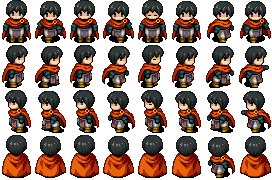
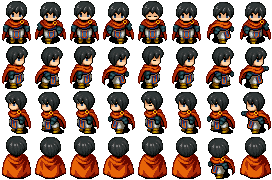
Update 20230120

diff --git a/src/script/player.js b/src/script/player.js
@@ -43,10 +43,10 @@ class Player{
 
         this.attributes = {
             power : 12,
-            agility : 999,
-            dexterity : 999,
+            agility : 10,
+            dexterity : 12,
             vitality : 11,
-            inteligence : 20
+            inteligence : 17
         }
         
         this.attributes_values = {
@@ -78,11 +78,16 @@ class Player{
 
         this.currentShieldSprite = this.sprites.shield.sprite
         this.currentShieldCropWidth = 45
+
+        this.message = {
+            message : '',
+            time : 0
+        }
     }
 
     draw(){ 
         
-        this.debug()
+        //this.debug()
 
         //draw shield first (up only)
         if(this.state.side == 'up' && this.state.defending){
@@ -107,12 +112,10 @@ class Player{
             )
         }        
 
-        this.center_x = (this.position.x + this.width/2) - (this.sprites.character.width/2)
-        this.center_y = (this.position.y + this.height - this.sprites.character.height)
+        this.center_x = (this.position.x + this.width/2)// - (this.sprites.character.width/2)
+        this.center_y = (this.position.y + this.height)// - (this.sprites.character.height)
         
-        context.font = "10px Arial Black"
-        context.fillStyle = 'black'
-        context.fillText(this.user_name, this.center_x, this.position.y -15) 
+        this.drawPlayerName()
 
         //draw character
         context.drawImage(          
@@ -121,8 +124,8 @@ class Player{
             this.currentCropHeight, //corte no eixo y
             this.sprites.character.cropWidth, //largura do corte
             this.sprites.character.cropHeight, //altura do corte
-            this.center_x, 
-            this.center_y,
+            this.center_x - (this.sprites.character.width/2), 
+            this.center_y - (this.sprites.character.height),
             this.sprites.character.width,
             this.sprites.character.height
         )
@@ -167,11 +170,13 @@ class Player{
         } 
 
         this.drawBars()
+
+        this.drawPlayerMessage()
     }
 
     drawBars(){
         var bar_width = 40
-        var bar_center_x = this.center_x -4
+        var bar_center_x = this.center_x - bar_width/2
 
         //HP bar
         if(this.attributes_values.hp < this.attributes_values.max_hp){
@@ -209,6 +214,61 @@ class Player{
                 context.fillStyle = 'yellow'
             }       
             context.fillRect(bar_center_x, this.position.y + this.height+8, bar_value, 3)
+        }
+    }
+
+    drawPlayerName(){
+        var center_name = (this.user_name.length*6) / 2
+
+        context.font = "10px Arial Black"
+        context.fillStyle = 'black'
+        context.fillText(this.user_name, this.center_x - center_name -1, (this.position.y + this.height) - (this.sprites.character.height)- 5-1) 
+
+        context.font = "10px Arial Black"
+        context.fillStyle = 'black'
+        context.fillText(this.user_name, this.center_x - center_name +1, (this.position.y + this.height) - (this.sprites.character.height)- 5+1) 
+
+        context.font = "10px Arial Black"
+        context.fillStyle = 'black'
+        context.fillText(this.user_name, this.center_x - center_name -1, (this.position.y + this.height) - (this.sprites.character.height)- 5+1) 
+
+        context.font = "10px Arial Black"
+        context.fillStyle = 'black'
+        context.fillText(this.user_name, this.center_x - center_name +1, (this.position.y + this.height) - (this.sprites.character.height)- 5-1) 
+        
+        context.font = "10px Arial Black"
+        context.fillStyle = '#'+this.color
+        context.fillText(this.user_name, this.center_x - center_name, (this.position.y + this.height) - (this.sprites.character.height)- 5) 
+
+    }
+
+    drawPlayerMessage(){
+        if(this.message.message != '' && this.message.time > 0){
+            //Baloon
+            
+            var center_name = (this.message.message.length*7) / 2
+
+            context.font = "12px Arial Black"
+            context.fillStyle = 'black'
+            context.fillText(this.message.message, this.center_x - center_name, (this.position.y + this.height) - (this.sprites.character.height)- 30) 
+
+            context.font = "12px Arial Black"
+            context.fillStyle = 'black'
+            context.fillText(this.message.message, this.center_x - center_name+2, (this.position.y + this.height) - (this.sprites.character.height)- 30+2) 
+
+            context.font = "12px Arial Black"
+            context.fillStyle = 'black'
+            context.fillText(this.message.message, this.center_x - center_name, (this.position.y + this.height) - (this.sprites.character.height)- 30+2) 
+
+            context.font = "12px Arial Black"
+            context.fillStyle = 'black'
+            context.fillText(this.message.message, this.center_x - center_name+2, (this.position.y + this.height) - (this.sprites.character.height)- 30) 
+
+            context.font = "12px Arial Black"
+            context.fillStyle = '#'+this.color
+            context.fillText(this.message.message, this.center_x - center_name+1, (this.position.y + this.height) - (this.sprites.character.height)- 30+1) 
+
+            this.message.time--
         }
     }
 
@@ -383,7 +443,6 @@ class Player{
         this.attributes_values.attack_speed = attack_speed_value(this.attributes.agility) + this.attributes_values.attack_speed
         this.attributes_values.hp_recovery = hp_recovery(this.attributes.vitality)   
         this.attributes_values.sp_recovery = sp_recovery(this.attributes.inteligence, this.attributes.dexterity) 
-
     }
 
     setGender(){
@@ -395,9 +454,8 @@ class Player{
                 this.sprites = {
                     character : {
                         sprite : createImage('src/image/knight_male.png'),
-                        cropWidth : 0,
                         width : 32,
-                        height : 50,
+                        height : 48,
                         cropWidth : 32,
                         cropHeight : 45
                     },
@@ -416,7 +474,6 @@ class Player{
                 this.sprites = {
                     character : {
                         sprite : createImage('src/image/knight_female.png'),
-                        cropWidth : 0,
                         width : 32,
                         height : 43,
                         cropWidth : 32,
@@ -436,7 +493,7 @@ class Player{
     }
 
     debug(){
-        //area
+        //player area
         context.fillStyle = '#ff000088'
         context.fillRect(this.position.x, this.position.y, this.width, this.height)  
 
@@ -482,5 +539,14 @@ class Player{
         context.font = "10px Arial Black"
         context.fillStyle = 'black'
         context.fillText('atk_cdown: ' + this.cooldown.attackCooldown, center_x +2, this.position.y + 52 +24+12+6)
+    }
+
+    setMessage(text){        
+        this.message.message = text   
+        var time_length = text.length 
+        if (time_length < 5){
+            time_length = 5
+        }
+        this.message.time = 20 * time_length
     }
 }

diff --git a/src/script/ws_conn.js b/src/script/ws_conn.js
@@ -30,14 +30,16 @@ input.addEventListener('keypress', e =>{
 button_send.addEventListener("click", send_message)
 
 function send_message() {
-    const value = input.value
-    if (value === ''){
+    const text = input.value
+    if (text === ''){
         return
     }
-    output.append('Eu (' + player_id + '): ' + value, document.createElement('br'))
+    output.append('Eu (' + player_id + '): ' + text, document.createElement('br'))
     //let json = JSON.parse('{ "type":"chat" , "text":"' + value + '" }')
-    conn.send('{ "type":"chat" , "text":"' + value + '" }')
+    conn.send('{ "type":"chat" , "text":"' + text + '" }')
     input.value = ''
+
+    player.setMessage(text)
 }
 
 button_user_name.addEventListener("click", send_user_name)
@@ -57,8 +59,8 @@ function send_user_name() {
 }
 
 function setConnection(user_name){
-    // conn = new WebSocket('ws://10.0.0.103:8085')
-    conn = new WebSocket('ws://192.168.1.100:8085')
+    conn = new WebSocket('ws://localhost:8085')
+    //conn = new WebSocket('ws://10.0.0.103:8085')
     conn.addEventListener('message', message => {
         const data = JSON.parse(message.data)
 
@@ -66,6 +68,8 @@ function setConnection(user_name){
 
         if(data.type === 'chat'){
             output.append(data.user_name +' (' + data.id + '): ' + data.text, document.createElement('br'))
+            var p = players.find(element => element.id == data.id)
+            p.setMessage(data.text)
         }
     
         if(data.type === 'action'){

diff --git a/src/script/damage.js b/src/script/damage.js
@@ -280,12 +280,12 @@ class Damage{
     }
 
     debug(){        
-        if(this.owner_id == 'Kyo'){
-            context.fillStyle = '#ff000055'
-        }else{
-            context.fillStyle = 'green'
-        }
-        context.fillRect(this.position.x, this.position.y, this.width, this.height)
+        // if(this.owner_id == 'Kyo'){
+        //     context.fillStyle = '#ff000055'
+        // }else{
+        //     context.fillStyle = 'green'
+        // }
+        // context.fillRect(this.position.x, this.position.y, this.width, this.height)
     }
 }
 
@@ -796,7 +796,6 @@ function sendDamage(id, result, knockback_side, knockback_val, stamina_result){
     }
 
     conn.send(JSON.stringify(json_obj))
-    console.log('send dmg type:action_damage '+ ' from:'+player.id+' to:'+id)
-    
+    //console.log('send dmg type:action_damage '+ ' from:'+player.id+' to:'+id)    
 }
 

diff --git a/src/script/hud.js b/src/script/hud.js
@@ -14,8 +14,20 @@ class Hud {
         if(id == 'player'){
             this.position.x = 0 + 2
             this.position.y = 800 - this.height - 2
-            this.face = createImage('src/image/knight_female_face.png')
             this.sprite_spell = createImage('src/image/hud_spell.png')
+
+            switch (char_gender){
+                case 'male':
+                    this.face = createImage('src/image/knight_male_face.png')
+                break
+
+                case 'female':
+                    this.face = createImage('src/image/knight_female_face.png')
+                break
+
+                default:
+                    this.face = undefined
+            }            
         }
         
         this.sprite = createImage('src/image/hud_large.png')

diff --git a/src/script/main.js b/src/script/main.js
@@ -37,10 +37,11 @@ var weapons = new Array()
 var damages = new Array()
 var displays = new Array()
 
-const hud = new Hud({id : 'player'})
+var hud
 
 function start() {  
-    requestAnimationFrame(animate);
+    requestAnimationFrame(animate)
+    hud = new Hud({id : 'player'})
 }
 
 function animate(timestamp){
